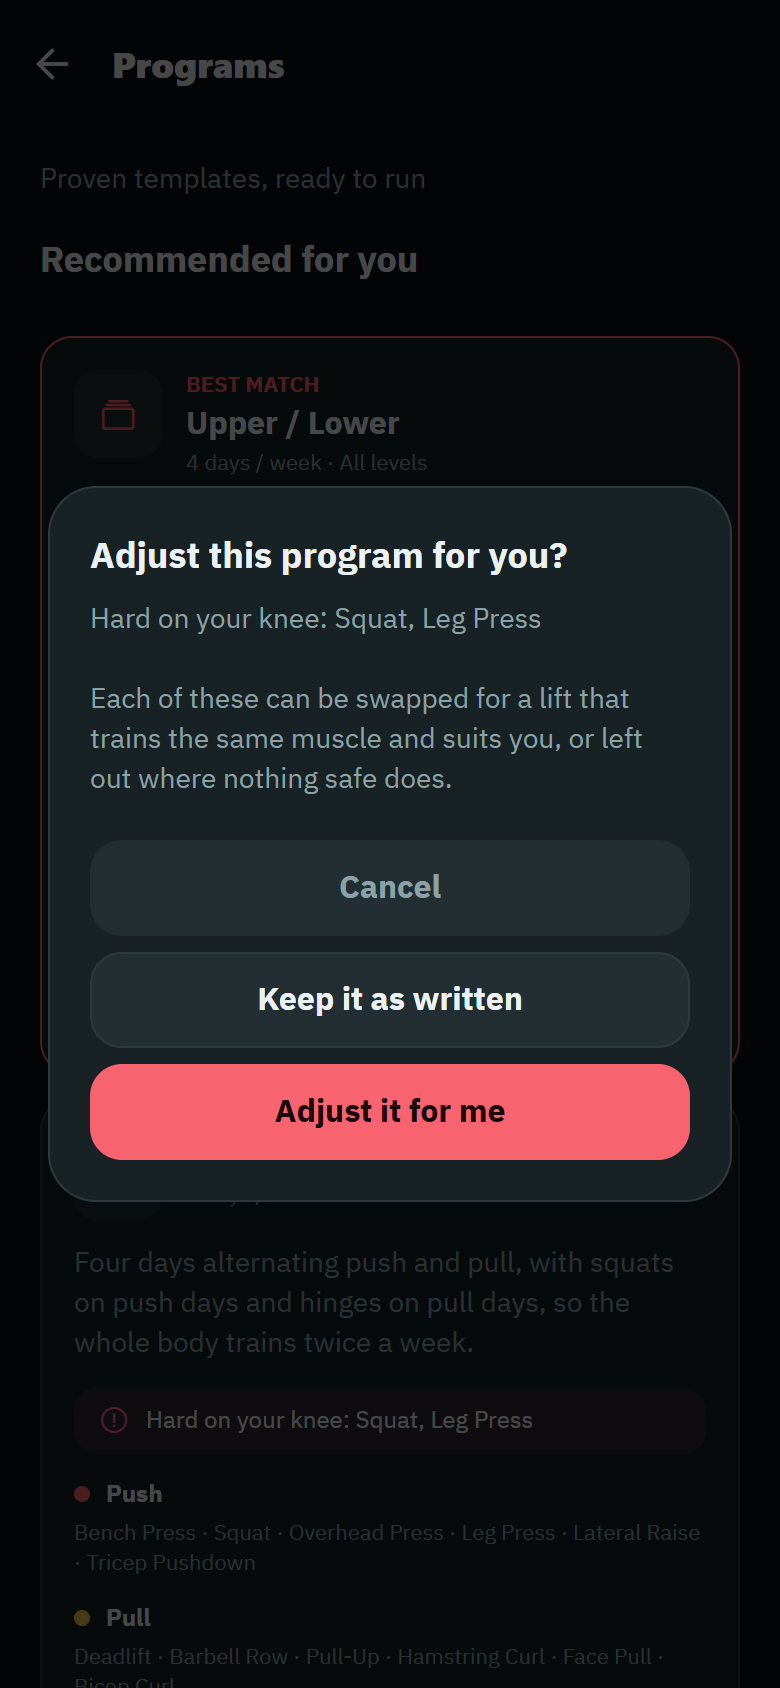
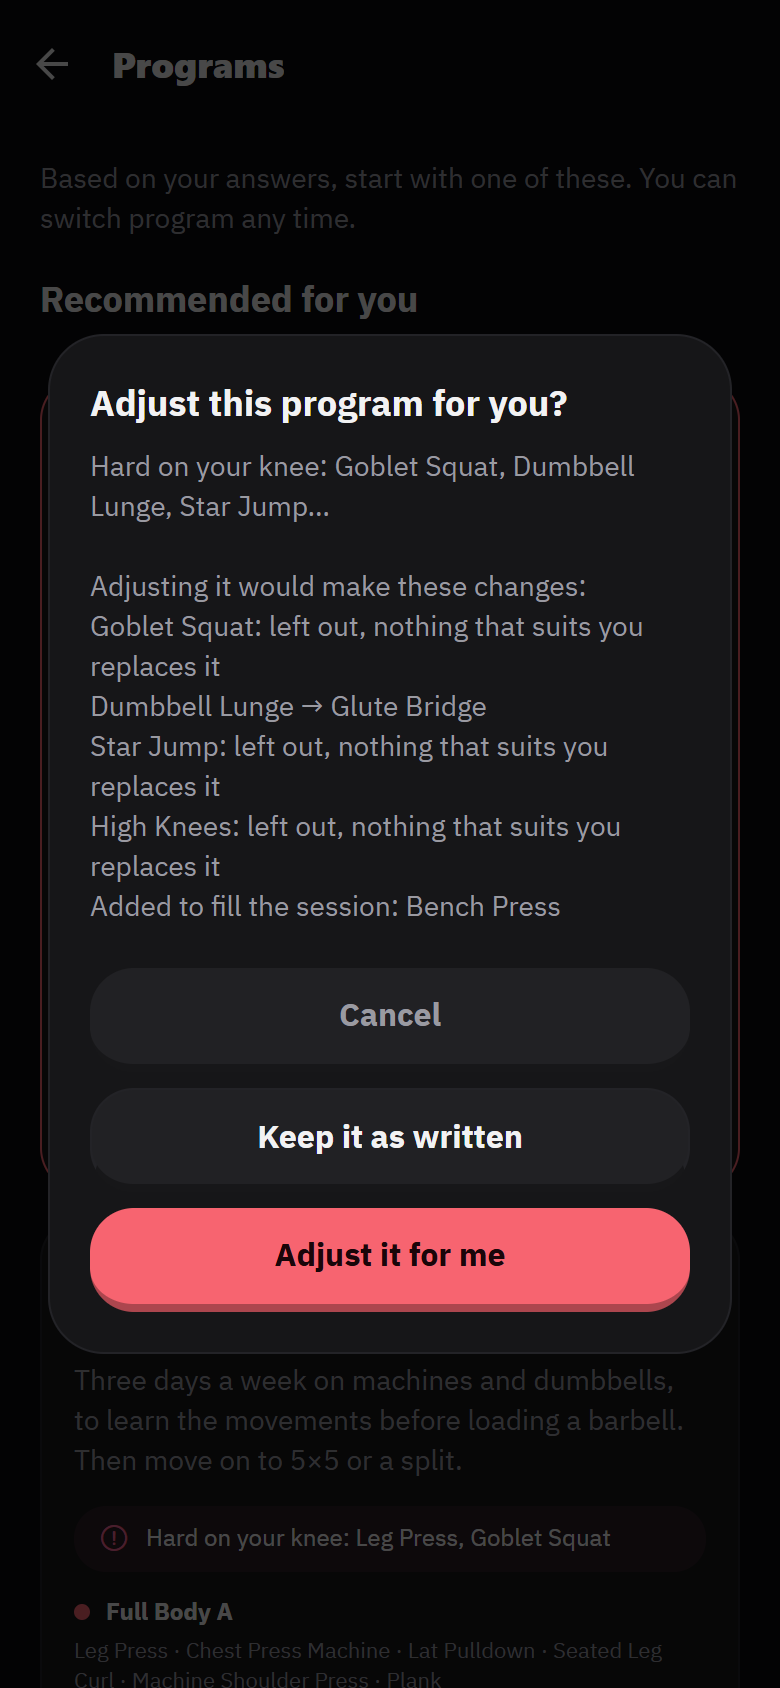
New UI, updated README and live demo

diff --git a/README.md b/README.md
@@ -1,54 +1,71 @@
 # Zeplo
 
-**A training, nutrition and body-tracking app for gyms in Iraqi Kurdistan, built to work with no account, no server and no data leaving the phone.**
+**A training, nutrition and body-tracking app that works with no account, no server and no data leaving the phone. Built in Iraqi Kurdistan, for anywhere.**
 
-Zeplo is in development and launching soon. This repository is a showcase: screenshots, the thinking behind the product, and how it is built. The app's source is private.
+**[Try the live demo](https://omargh99.github.io/zeplo-showcase/)** (best on a phone, or a narrow browser window)
+
+Zeplo is in development and launching soon. This repository is a showcase: screenshots, a browser demo, the thinking behind the product, and how it is built. The app's source is private.
 
 <p>
-  <img src="screenshots/home.png" width="200" alt="Home">
-  <img src="screenshots/active-workout.png" width="200" alt="Active workout">
+  <img src="screenshots/home.png" width="200" alt="Home, dark theme">
+  <img src="screenshots/home-light.png" width="200" alt="Home, light theme">
+  <img src="screenshots/active-workout.png" width="200" alt="A workout in progress">
   <img src="screenshots/home-arabic.png" width="200" alt="Home in Arabic, laid out right to left">
-  <img src="screenshots/weekly-review-sorani.png" width="200" alt="Weekly review in Kurdish (Sorani)">
 </p>
 
 ## Why it exists
 
-Most fitness apps assume an English-speaking user, an always-on connection, a Western diet and an account. Gyms in Kurdistan are not that. Members read Kurdish (two written forms) or Arabic, many are on patchy data, the food is kofta, dolma, rice and flatbread rather than chicken and broccoli, and Ramadan changes how a day is eaten and trained.
+Most fitness apps assume an English-speaking user, an always-on connection, a Western diet and an account. Gyms in Kurdistan are not that. Members read Kurdish (two written forms) or Arabic, many are on patchy data, the food is kofta, dolma, rice and flatbread, and Ramadan changes how a day is eaten and trained.
 
-Zeplo is built around that, and around one promise: **your data stays on your phone.** There is no sign-in, no backend and no analytics. Progress photos never leave the device. A new phone restores from a backup file you export yourself.
+Zeplo started there and kept three promises as it widened:
+
+- **Your data stays on your phone.** No sign-in, no backend, no analytics. Progress photos never leave the device. A new phone restores from a backup file you export yourself.
+- **Nothing is behind a paywall.** There is no paid tier.
+- **It fits where you are.** Languages and the food list follow the phone's region, and both can be changed.
 
 ## What it does
 
 **Training**
-- Workout programmes recommended from a short set of questions: goal, experience, equipment, days per week and session length.
-- Programmes adjust for an injury (a bad knee, a sore lower back) or for training at home, swapping lifts for sensible stand-ins instead of leaving holes.
+- 32 programmes, recommended from a short set of questions: goal, experience, equipment, days a week and session length.
+- Programmes adjust for an injury or for training at home. Before you agree, the app lists what happens to each lift: swapped for what, or left out.
 - Progressive overload built in: the start sheet opens at today's target weight, and the rest timer follows the programme.
+- Swipe a set to copy or remove it. The screen stays on while you train.
 - Warm-ups, mobility and posture routines, with a demonstration for each exercise.
-- Sport sessions (padel, football, volleyball, boxing, swimming and others) logged with an honest calorie estimate.
-- A weekly review you can share as an image.
+- Sport sessions (padel, football, volleyball, boxing, swimming and others) logged with a calorie estimate.
+- Import a training history from Strong, Hevy or FitNotes. The file is read on the phone.
 
 **Nutrition**
-- Calorie and macro targets from your body and goal, with a choice of pace and safety floors that refuse to go below what needs medical supervision.
-- Diet plans written around local food, adapted automatically for allergies and for named diets such as keto.
-- Meal suggestions that make cultural sense: no quzi at breakfast.
-- Barcode scanning, favourite foods, and "same as last time" for repeat meals.
-- Ramadan mode with suhoor and iftar in place of breakfast and dinner.
+- Calorie and macro targets from your body and goal, with a choice of pace and floors that refuse to go below what needs medical supervision.
+- 21 two-week eating plans, ordered for your diet and goal, and rewritten automatically for allergies.
+- An international food list of 159 foods, with 62 Iraqi and Kurdish dishes and staples added in Iraq. Outside the chosen list a food is not suggested, but a search still finds it.
+- Fried, processed and feast foods are never recommended, only logged.
+- Barcode scanning, favourite foods, one-tap snacks and "same as last time".
+- Ramadan mode, with suhoor and iftar in place of breakfast and dinner.
 
 **Body**
 - Weigh-ins, measurements, goals and private progress photos.
 
 **Everywhere**
-- Four languages: English, Kurdish (Badini), Kurdish (Sorani) and Arabic. Two of them are right to left, and the layout is mirrored throughout rather than patched.
-- Dark and light themes. A one-tap "+" in the tab bar logs a workout, food, a weigh-in or a sport session from any screen.
+- English worldwide; Arabic across the Arabic-speaking countries; Kurdish (Badini and Sorani) in Iraq. Three of the four are right to left, and the layout is mirrored throughout.
+- Dark and light themes. A floating tab bar with an Add button that logs a workout, food, a weigh-in or a sport session from any screen.
 
 ## Screens
 
 | | | |
 |---|---|---|
-| <img src="screenshots/recommended-programmes.png" width="220"><br>Programmes recommended from your answers | <img src="screenshots/programme-adjusted-for-knee.png" width="220"><br>Adjusted for a knee limitation | <img src="screenshots/diet-plan-nut-allergy.png" width="220"><br>A diet plan adapted for a nut allergy |
-| <img src="screenshots/calorie-targets.png" width="220"><br>Calorie targets with a pace | <img src="screenshots/weekly-review.png" width="220"><br>Weekly review | <img src="screenshots/quick-add.png" width="220"><br>Quick add from the tab bar |
+| <img src="screenshots/setup.png" width="220"><br>Setup ends with your own calorie target | <img src="screenshots/recommended-programmes.png" width="220"><br>Programmes recommended from your answers | <img src="screenshots/programme-adjusted-for-knee.png" width="220"><br>What adjusting for a knee will change |
+| <img src="screenshots/my-plan.png" width="220"><br>Your plan, day by day | <img src="screenshots/swipe-a-set.png" width="220"><br>Swipe a set to copy or remove it | <img src="screenshots/weekly-review.png" width="220"><br>Weekly review |
+| <img src="screenshots/nutrition-light.png" width="220"><br>Nutrition, light theme | <img src="screenshots/food-list-international.png" width="220"><br>The international food list | <img src="screenshots/diet-plan-nut-allergy.png" width="220"><br>A plan rewritten for a nut allergy |
+| <img src="screenshots/calorie-targets.png" width="220"><br>Calorie targets with a pace | <img src="screenshots/quick-add.png" width="220"><br>Add, from any screen | <img src="screenshots/progress.png" width="220"><br>Progress |
+| <img src="screenshots/welcome.png" width="220"><br>First launch in Iraq: four languages | <img src="screenshots/language-and-food.png" width="220"><br>Language and food list | <img src="screenshots/weekly-review-sorani.png" width="220"><br>Weekly review in Kurdish (Sorani) |
 
 Screenshots are from the web build at phone size, with sample data.
+
+## The demo
+
+The demo is the real app, built for the browser. It starts empty, as a new install does, and keeps what you enter in that browser only.
+
+A browser cannot do everything a phone can. The camera and barcode scanner, notifications, the share sheet and the home-screen widget are not in the demo.
 
 ## How it is built
 
@@ -63,33 +80,34 @@ Screenshots are from the web build at phone size, with sample data.
 
 A few decisions worth reading about:
 
-- **Offline by construction.** There is no server to be down, and no data to leak or sell. The two network calls in the app, a barcode lookup and opening a YouTube search, are user-initiated and carry no identity.
-- **Storage that survives years of use.** One storage key would have passed 2 MB after about three years of heavy logging, which older Android phones cannot read back from a single row. History and food logs are therefore sharded by month and only changed months are rewritten.
+- **Offline by construction.** There is no server to be down, and no data to leak or sell. The two network calls in the app, a barcode lookup and opening a YouTube search, are user-initiated and carry no identity. The region is read from the phone's own settings, not looked up.
+- **Storage that survives years of use.** One storage key would have passed 2 MB after about three years of heavy logging, which older Android phones cannot read back from a single row. History and food logs are sharded by month and only changed months are rewritten.
 - **Migrations before changes.** A saved-data version bump with no upgrade step would erase every user's history on the next launch. A check script refuses that change.
 - **Failures are values, not exceptions.** Anything that can fail because of the network or the user returns a result with a small reason code, mapped to a translated message. The UI never shows a raw platform error.
 - **Backup is a file, not a service.** A validated snapshot goes through the system share sheet. Photos are excluded from it on purpose.
+- **Hand-written tables over clever matching.** Food swaps, exercise stand-ins and import name matching are written row by row. Matching on numbers alone once turned milk into hummus.
 
 ## How it is tested
 
-There is no test framework. Instead there are **18 check scripts, each written against a failure that really happened**, run together with the type checker and linter on every change. Some of what they hold:
+There is no test framework. Instead there are **24 check scripts, each written against a failure that really happened**, run together with the type checker and linter on every change. Some of what they hold:
 
-- **Targets:** every combination of sex, age, height, weight, activity, goal, pace and diet, about 60,000 profiles, run through the real calculation. None may land below a safe calorie floor, break its macro maths, or give a keto diet a normal carbohydrate target.
-- **Diet plans:** a plan may not name a food that does not exist, serve a food outside its meal, repeat something more often than anyone eats it, or keep an allergen after being adapted for that allergy.
-- **Programmes:** a card may not promise more days than adopting it schedules, and a programme adjusted for an injury may not still hold the lift it removed.
-- **Languages:** a key present in one language and missing in another is a build failure, not a silent fallback to English in the middle of an Arabic screen.
+- **Targets:** about 60,000 combinations of sex, age, height, weight, activity, goal, pace and diet, run through the real calculation. None may land below a safe calorie floor or break its macro maths.
+- **Diet plans:** a plan may not name a food that does not exist, serve fried or feast food, keep an allergen after being rewritten for that allergy, or name an Iraqi dish outside Iraq.
+- **Programmes:** a card may not promise more days than adopting it schedules, and what the adjust dialog says must be what adjusting does.
+- **Languages:** a key present in one language and missing in another is a build failure, including keys built at run time.
 - **Numbers:** a typed "82.5" or "82٫5" with an Arabic decimal mark must be stored as 82.5, never 825.
 - **Colour:** every palette colour is checked for WCAG contrast on the surfaces it sits on, in both themes.
 - **Erase everything:** the reset must leave no stored field, photo, reminder or old copy behind.
 
-Behavioural claims get a throwaway proof script that seeds a state and asserts the outcome, with the real numbers kept in the commit message.
+On top of those, a browser harness drives the built app at phone size: 94 on-screen checks, including a full first run from an empty phone, and seven different people walked from setup to a finished workout in their own language and region.
 
 ## Design process
 
-The app went through a written design and UX audit before launch: a prioritised list of problems found at phone sizes from 320 pt up, in both themes and both text directions, followed by fixes to type sizes, shared form components, navigation and accessibility.
+The app went through a written design audit and a first-run review before launch. The first-run review walked the app as somebody who had just installed it and found eighteen defects that were invisible from a phone full of data, including one where a single tap replaced an adopted programme. Each has a check that fails if it returns.
 
 ## Status
 
-In development. Pre-launch work in progress: store listing, privacy policy, and native-speaker review of the Kurdish and Arabic text.
+In development. Pre-launch work in progress: testing on real devices, native-speaker review of the Kurdish and Arabic text, a coach's review of the programmes, and the store listing.
 
 ## Contact
 
